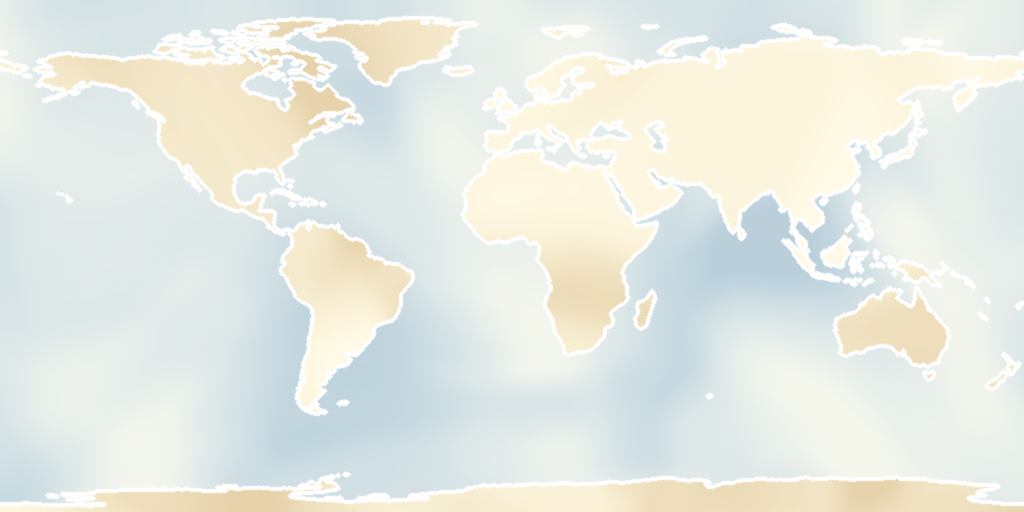
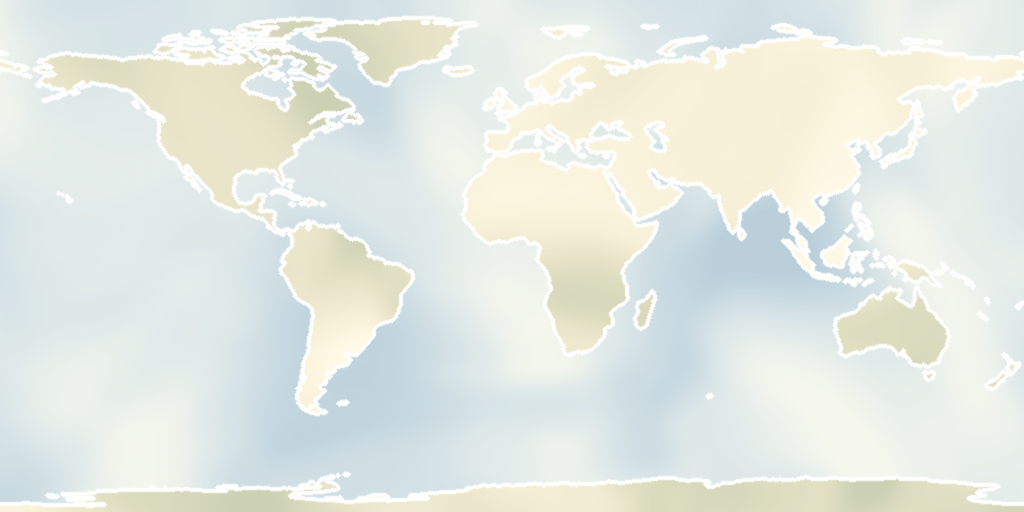
Refine woodland paper textures and steady automatic route framing

Changed region(s): [[0.2812, 0.0938, 0.3438, 0.2188], [0.1875, 0.9375, 0.2812, 1.0], [0.8125, 0.9375, 0.875, 1.0]]

diff --git a/public/style.css b/public/style.css
@@ -6,7 +6,7 @@
   --red: #9d4835; --red-dark: #823c2e; --route-red: #cb3824;
   --ocean: #bfd2d8; --land: #f6e7be; --coast: #a08a66;
   --dock: var(--paper); --chart: var(--paper); --sepia: var(--ink);
[2 lines of base64/hex data omitted]
   --paper-wash: radial-gradient(130% 120% at 30% 10%, var(--paper-high), var(--paper) 60%, var(--paper-low));
   --ease-out: cubic-bezier(.2, .85, .25, 1); --ease-in-out: cubic-bezier(.645, .045, .355, 1);
 }
@@ -38,8 +38,8 @@ input::placeholder { color: var(--muted); }
 /* The map */
 main { position: relative; width: 100%; height: 100%; }
 .map-shell { position: absolute; inset: 0; overflow: hidden; background: var(--ocean); }
-/* One small reused paper tile, fixed in scale so zoom never magnifies the grain. */
-.map-shell::after, .unfold-face::after, .unfold-back::after { content: ''; position: absolute; inset: 0; pointer-events: none; background-image: var(--paper-grain); background-size: 80px 64px; background-position: var(--paper-offset, 0 0); opacity: .38; }
+/* Fine rag fibres and softly pooled pigment, baked into one tile at screen scale. */
+.map-shell::after, .unfold-face::after, .unfold-back::after { content: ''; position: absolute; inset: 0; pointer-events: none; background-image: var(--paper-grain); background-size: 192px 192px; background-position: var(--paper-offset, 0 0); opacity: .38; }
 /* A restrained double neatline: paper between two fine cartographic rules. */
 .atlas-frame { position: absolute; z-index: 2; inset: 8px; border: 1px solid #a79778; outline: 8px solid #eee3cc; box-shadow: inset 0 0 0 4px #f0e5cf; pointer-events: none; }
 .atlas-frame::after { content: ''; position: absolute; inset: 4px; border: 1px solid #9f8d6b99; }

diff --git a/public/trace.js b/public/trace.js
@@ -2,7 +2,7 @@
 (() => {
   'use strict';
   const clamp=(value,min,max)=>Math.max(min,Math.min(max,value));
-  const maxZoom=240,autoZoomLimit=118;
+  const maxZoom=240,autoZoomLimit=84;
   const duration=length=>Math.max(1600,Math.min(3600,length*6));
   const ease=value=>{const t=clamp(value,0,1);return t*t*t*(t*(t*6-15)+10);};
   // Ramp velocity smoothly over the first and last 30% of a move. The
@@ -79,20 +79,31 @@
   }
   function fitLevel({left,right,top,bottom},space,world){
     const spanX=Math.max(1e-6,right-left),spanY=Math.max(1e-6,bottom-top);
-    const localLevel=Math.min(world.w*.28/spanX,world.h*.24/spanY);
-    return Math.max(1,Math.min(autoZoomLimit,Math.max(2.35,localLevel),
-      (space.right-space.left)*world.w/(Math.max(1,spanX)*space.width*1.16),
-      (space.bottom-space.top)*world.h/(Math.max(1,spanY)*space.height*1.16)));
+    // Compose against the actual free viewport, not a fixed fraction of the
+    // world. Regional journeys use the same readable scale on narrow screens.
+    const fit=Math.min((space.right-space.left)*world.w/(spanX*space.width),
+      (space.bottom-space.top)*world.h/(spanY*space.height));
+    const desired=fit*.58;
+    // A soft ceiling preserves geographic context on tiny hops without a
+    // sudden change of behaviour at a particular distance. Manual zoom is free.
+    return Math.max(1,desired/(1+(desired/autoZoomLimit)**4)**.25);
   }
   function camera(geometry,space,world,destination,zoom=null,before=null,after=null){
     if(zoom){const follow=point=>pointFrame(point,space,world,zoom);return {follow,arrival:follow(destination)};}
     const {left,right,top,bottom}=geometry.bounds,center=[(left+right)/2,(top+bottom)/2];
     let level=fitLevel(geometry.bounds,space,world);
-    // Ease an isolated close-up between two wider legs. A run of nearby
-    // stops keeps its natural detail, regardless of playback direction.
+    // Limit a solitary close-up between wider legs, while preserving detail
+    // throughout a local itinerary. Work in zoom ratios, in either direction.
     if(before&&after){
       const neighbor=Math.max(fitLevel(before.bounds,space,world),fitLevel(after.bounds,space,world));
-      if(level>neighbor*1.5)level=Math.max(level*.72,Math.sqrt(level*neighbor*1.5));
+      if(level>neighbor*1.5)level=Math.max(level*.4,Math.sqrt(level*neighbor*1.5));
+    }
+    // Similar neighboring legs share their wider composition. This removes
+    // small in/out breaths as a route works through a region.
+    const composedLevel=level;
+    for(const adjacent of [before,after])if(adjacent){
+      const nearby=fitLevel(adjacent.bounds,space,world);
+      if(nearby>=composedLevel/1.35)level=Math.min(level,nearby);
     }
     const w=world.w/level,h=world.h/level,sx=space.width/w,sy=space.height/h;
     const axis=(min,max,first,last,scale,extent,size,focus)=>{
@@ -100,12 +111,10 @@
       const low=Math.max(0,max-last/scale),high=Math.min(size-extent,min-first/scale);
       return low<=high?clamp(desired,low,high):clamp(desired,0,size-extent);
     };
-    function follow(point){
-      // Keep the entire arc composed; the moving line adds only a small pan bias.
-      const focus=geometry.crossesSeam?center:center.map((n,i)=>n*.84+point[i]*.16);
-      return {x:axis(left,right,space.left,space.right,sx,w,world.w,focus[0]),y:axis(top,bottom,space.top,space.bottom,sy,h,world.h,focus[1]),w,h};
-    }
-    return {follow,arrival:follow(destination)};
+    // One fixed composition per leg. Moving the target along with the ink
+    // made the camera creep after the route already fitted comfortably.
+    const arrival={x:axis(left,right,space.left,space.right,sx,w,world.w,center[0]),y:axis(top,bottom,space.top,space.bottom,sy,h,world.h,center[1]),w,h};
+    return {follow:()=>arrival,arrival};
   }
   function cameraView(start,plan,point,amount){
     if(amount>=1)return {...plan.arrival};

diff --git a/public/map-paint.js b/public/map-paint.js
@@ -35,11 +35,14 @@
   // SVG image (and a decoded bitmap); the overview requests no relief.
   function relief(layer,coverage){
     const levels=[4,16].map((cols,i)=>({cols,rows:coverage?.[i]||[],tiles:new Map(),opacity:0,key:''}));
+    const smoothStep=(start,end,value)=>{const t=Math.max(0,Math.min(1,(value-start)/(end-start)));return t*t*(3-2*t);};
     return function paint(view,zoom){
       for(const level of levels){
         const {cols,rows,tiles}=level,span=1440/cols;
-        const strength=cols===4?Math.min(.86,(zoom-2.2)*.4,Math.max(.48,(16-zoom)*.12)):Math.min(.88,(zoom-10)*.3);
-        const opacity=Math.max(0,Math.round(strength*40)/40);
+        // Let the broad woodland wash give way to the engraved ridges. Keeping
+        // both plates strong at close range used to muddy the paper highlights.
+        const strength=cols===4?.76*smoothStep(2.2,4.6,zoom)*(1-.82*smoothStep(9,20,zoom)):.78*smoothStep(10,18,zoom);
+        const opacity=Math.round(strength*80)/80;
         const x0=Math.max(0,Math.floor(view.x/span)),x1=Math.min(cols-1,Math.ceil((view.x+view.w)/span)-1);
         const y0=Math.max(0,Math.floor(view.y/span)),y1=Math.min(rows.length-1,Math.ceil((view.y+view.h)/span)-1);
         const key=opacity?[x0,x1,y0,y1,opacity].join('/'):'';
